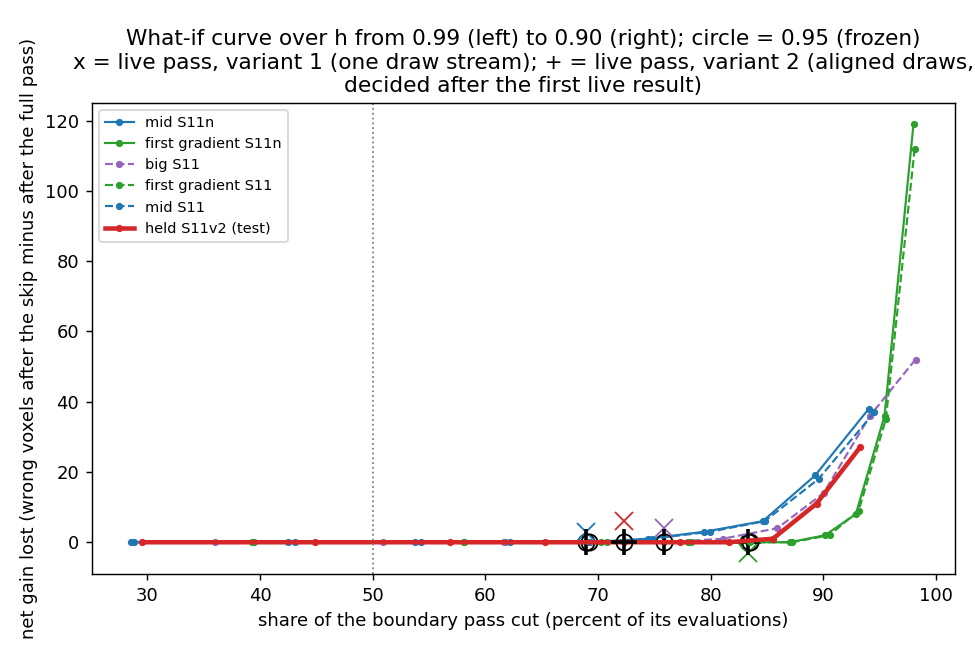
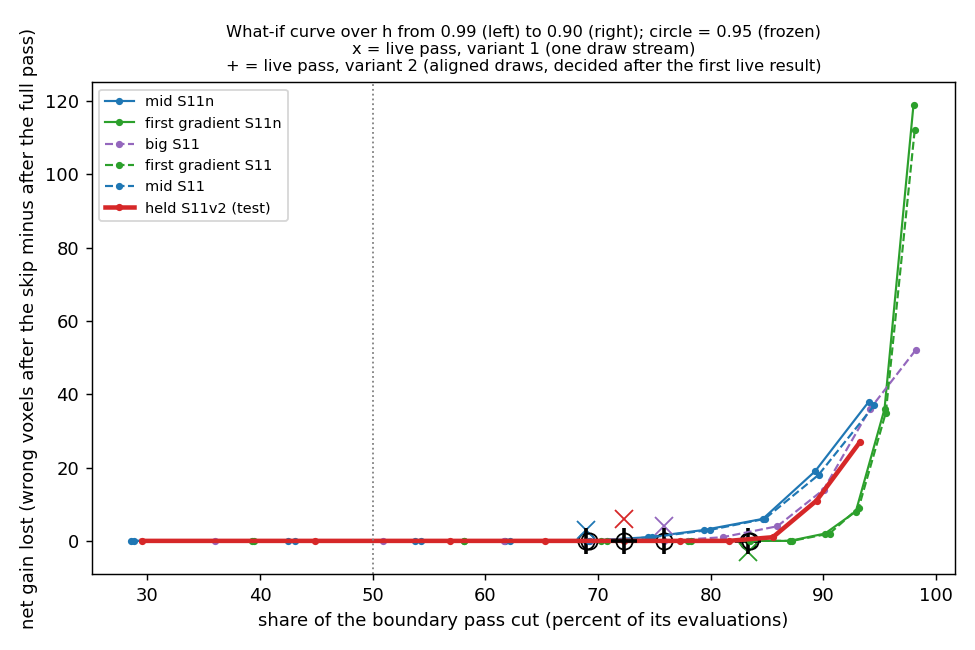
AR5 step 7 review fixes 3, 6, 7: plot title fits; held's variant 2 entries marked not clean
gate_summary.py: the plot title is split into three lines at 9 pt (it was clipped at the right);
held's entries in live_v2, rule_live_v2, variants and predictions_v2 (its live rows) carry
"not clean: decided after held was read live under variant 1"; the held variant 2 row of
pareto_rows.json extends its flag. Regenerated from the committed JSON files: no number changed.

diff --git a/icenine_py/scripts/autoresearch/ar5/gate_summary.py b/icenine_py/scripts/autoresearch/ar5/gate_summary.py
@@ -22,6 +22,10 @@ from doc_tables import markdown_table, write_tables  # noqa: E402
 G = GC.GATE
 ENTRIES: List[Tuple[str, str]] = GC.DISCLOSED + [("held", "S11v2")]
 LIVE: List[Tuple[str, str]] = [("mid", "S11n"), ("grad", "S11n"), ("big", "S11"), ("held", "S11v2")]
+# held was read live once under variant 1 before variant 2 was decided: its variant 2 entries
+# carry this mark wherever they appear (tables.md and pareto_rows.json)
+NOT_CLEAN = "not clean: decided after held was read live under variant 1"
+HELD_FLAG = "; held read live once under variant 1 before this variant; not a clean test"
 COLORS = {"big": "tab:purple", "grad": "tab:green", "mid": "tab:blue", "held": "tab:red"}
 NAME = {"big": "big", "grad": "first gradient", "mid": "mid", "held": "held"}
 
@@ -476,8 +480,9 @@ def plot(
     ax.set_ylabel("net gain lost (wrong voxels after the skip minus after the full pass)")
     ax.set_title(
         "What-if curve over h from 0.99 (left) to 0.90 (right); circle = 0.95 (frozen)\n"
-        "x = live pass, variant 1 (one draw stream); + = live pass, variant 2 (aligned draws,\n"
-        "decided after the first live result)"
+        "x = live pass, variant 1 (one draw stream)\n"
+        "+ = live pass, variant 2 (aligned draws, decided after the first live result)",
+        fontsize=9,
     )
     ax.legend(fontsize=8)
     fig.tight_layout()
@@ -536,7 +541,8 @@ def pareto(
                     evals_total=v2["total_with_pass"],
                     wrong=v2["live"]["wrong"],
                     kind="live",
-                    flag="variant 2, decided after the first live result, D-20261112-N5",
+                    flag="variant 2, decided after the first live result, D-20261112-N5"
+                    + (HELD_FLAG if s == "held" else ""),
                 )
             )
         if v is None:
@@ -580,9 +586,10 @@ def v2_tables(L1: Dict[Tuple[str, str], Any], L2: Dict[Tuple[str, str], Any]) ->
             continue
         u, u1 = v["rule"], v1["rule"]
         fd = v.get("first_difference")
+        mark = f" ({NOT_CLEAN})" if s == "held" else ""
         rows.append(
             dict(
-                sample=NAME[s],
+                sample=NAME[s] + mark,
                 run=run,
                 ev=f"{v['live_pass_evals']:,}",
                 ident=f"{v['kept_tries_identical']:,} of {v['kept_tries_total']:,}",
@@ -608,7 +615,7 @@ def v2_tables(L1: Dict[Tuple[str, str], Any], L2: Dict[Tuple[str, str], Any]) ->
                 s8e=yn(u["pass_s8_evals"]),
                 s8w=f"{yn(u['pass_s8_wrong'])} ({v['broken_vs_s8'] - v['fixed_vs_s8']} <= 5)",
                 s8m=f"{yn(u['pass_s8_median'])} ({dm_s8:+.5f})",
-                passes="yes" if u["passes"] else "no",
+                passes=("yes" if u["passes"] else "no") + mark,
             )
         )
         vs.append(
@@ -617,7 +624,7 @@ def v2_tables(L1: Dict[Tuple[str, str], Any], L2: Dict[Tuple[str, str], Any]) ->
                 run=run,
                 a="yes" if u1["passes"] else "no",
                 b=f"{v1['fixed_vs_full']} / {v1['broken_vs_full']}",
-                c="yes" if u["passes"] else "no",
+                c=("yes" if u["passes"] else "no") + mark,
                 d=f"{v['fixed_vs_full']} / {v['broken_vs_full']}",
             )
         )
@@ -665,6 +672,10 @@ def v2_tables(L1: Dict[Tuple[str, str], Any], L2: Dict[Tuple[str, str], Any]) ->
         "the full pass | fixed / broken vs the full pass | wrong, live against full pass |",
     )
     pred = predictions(rows_replay(), L2)
+    for p in pred:
+        # held's live rows only; prediction 1 is the replay (computed before any live pass)
+        if p["sample"] in ("held (live)", "held S11v2"):
+            p["verdict"] = f"{p['verdict']} ({NOT_CLEAN})"
     T["predictions_v2"] = markdown_table(pred, ["no", "sample", "observed", "verdict"]).replace(
         "| no | sample | observed | verdict |", "| prediction | sample | observed | verdict |"
     )

diff --git a/icenine_py/benchmarks/autoresearch/ar5/gate/tables.md b/icenine_py/benchmarks/autoresearch/ar5/gate/tables.md
@@ -48,7 +48,7 @@
 | mid | S11n | 951,112 | 15,592 of 15,592 | none | 35 (0.10 to 0.20%) | 0 / 0 | 13 / 17 | 0.02913 | 11,997,038 | 54.6% |
 | first gradient | S11n | 614,514 | 10,074 of 10,074 | none | 59 (0.19 to 0.31%) | 0 / 0 | 33 / 29 | 0.02122 | 6,469,435 | 64.1% |
 | big | S11 | 273,951 | 4,491 of 4,491 | none | 18 (0.05 to 0.12%) | 0 / 0 | 13 / 7 | 0.03084 | 3,153,656 | 62.2% |
-| held | S11v2 | 1,436,977 | 23,557 of 23,557 | none | 69 (0.22 to 0.36%) | 0 / 0 | 24 / 23 | 0.02610 | 33,753,877 | 43.7% |
+| held (not clean: decided after held was read live under variant 1) | S11v2 | 1,436,977 | 23,557 of 23,557 | none | 69 (0.22 to 0.36%) | 0 / 0 | 24 / 23 | 0.02610 | 33,753,877 | 43.7% |
 <!-- /table:live_v2 -->
 
 <!-- table:noise -->
@@ -89,19 +89,19 @@
 | prediction | sample | observed | verdict |
 |---|---|---|---|
 | 1 | held (replay) | cut 72.3%; fixed / broken 0 / 0 | met |
-| 2 | held (live) | 10.0% fewer (33,753,877 against 37,507,939); the pass was 5,191,039 | met |
+| 2 | held (live) | 10.0% fewer (33,753,877 against 37,507,939); the pass was 5,191,039 | met (not clean: decided after held was read live under variant 1) |
 | 3 | mid S11n | live 951,112, replay 951,112; 15592 tries at 61.0 each | met |
 | 3 | grad S11n | live 614,514, replay 614,514; 10074 tries at 61.0 each | met |
 | 3 | big S11 | live 273,951, replay 273,951; 4491 tries at 61.0 each | met |
-| 3 | held S11v2 | live 1,436,977, replay 1,436,977; 23557 tries at 61.0 each | met |
+| 3 | held S11v2 | live 1,436,977, replay 1,436,977; 23557 tries at 61.0 each | met (not clean: decided after held was read live under variant 1) |
 | 4 | mid S11n | live 35, replay 35 (difference +0) | met |
 | 4 | grad S11n | live 59, replay 59 (difference +0) | met |
 | 4 | big S11 | live 18, replay 18 (difference +0) | met |
-| 4 | held S11v2 | live 69, replay 69 (difference +0) | met |
+| 4 | held S11v2 | live 69, replay 69 (difference +0) | met (not clean: decided after held was read live under variant 1) |
 | 5 | mid S11n | +0.00000 degree against the full pass | met |
 | 5 | grad S11n | +0.00003 degree against the full pass | met |
 | 5 | big S11 | +0.00007 degree against the full pass | met |
-| 5 | held S11v2 | +0.00006 degree against the full pass | met |
+| 5 | held S11v2 | +0.00006 degree against the full pass | met (not clean: decided after held was read live under variant 1) |
 <!-- /table:predictions_v2 -->
 
 <!-- table:replay -->
@@ -130,7 +130,7 @@
 | mid | S11n | met (68.9%) | met (0 <= 2) | met (+0.00000) | met | met (4 <= 5) | met (-0.00060) | yes |
 | first gradient | S11n | met (83.3%) | met (0 <= 8) | met (+0.00003) | met | met (-4 <= 5) | met (-0.00142) | yes |
 | big | S11 | met (75.9%) | met (0 <= 3) | met (+0.00007) | met | met (-6 <= 5) | met (-0.00077) | yes |
-| held | S11v2 | met (72.3%) | met (0 <= 2) | met (+0.00006) | met | met (-1 <= 5) | met (-0.00248) | yes |
+| held | S11v2 | met (72.3%) | met (0 <= 2) | met (+0.00006) | met | met (-1 <= 5) | met (-0.00248) | yes (not clean: decided after held was read live under variant 1) |
 <!-- /table:rule_live_v2 -->
 
 <!-- table:rule_replay -->
@@ -150,5 +150,5 @@
 | mid | S11n | no | 4 / 7 | yes | 0 / 0 |
 | first gradient | S11n | yes | 15 / 12 | yes | 0 / 0 |
 | big | S11 | no | 2 / 6 | yes | 0 / 0 |
-| held | S11v2 | no | 4 / 10 | yes | 0 / 0 |
+| held | S11v2 | no | 4 / 10 | yes (not clean: decided after held was read live under variant 1) | 0 / 0 |
 <!-- /table:variants -->
